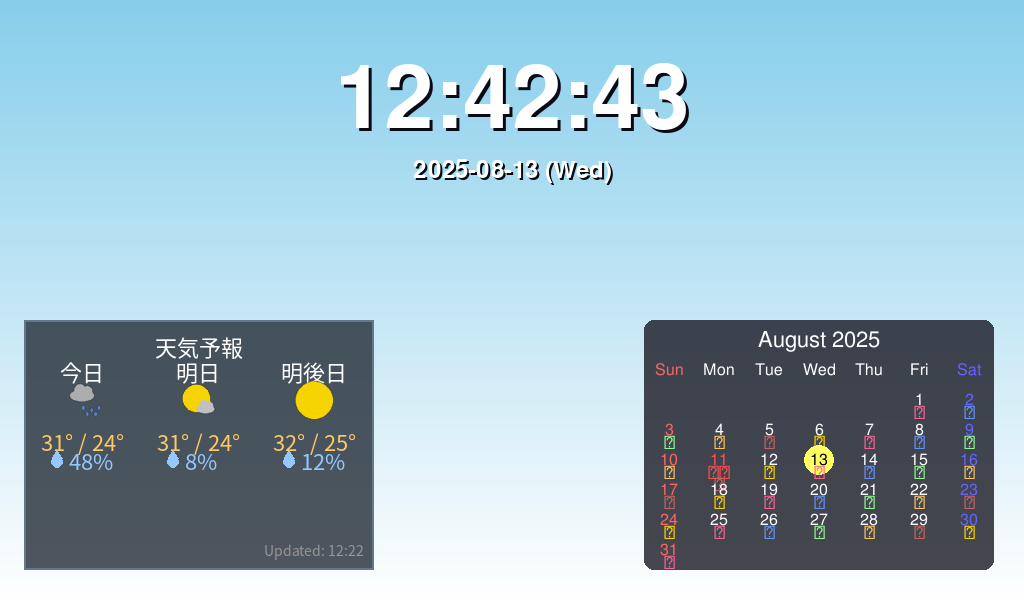
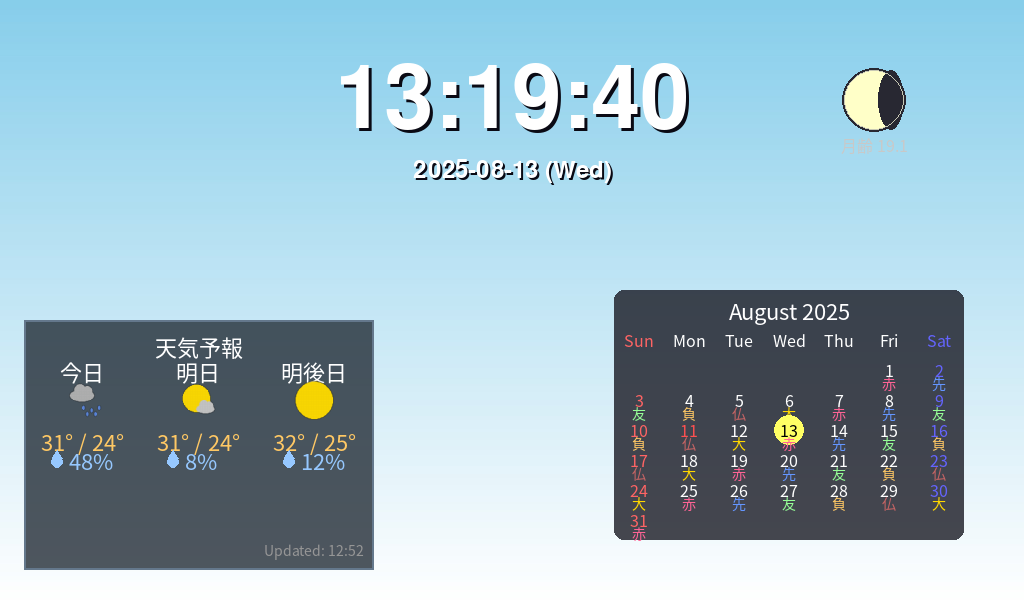
fix: 月相の表示を修正（影の向きと文字表示）
月相表示の問題を修正しました。

修正内容:
1. 月の影の向きを修正
   - 月齢19日（寝待月）では左側に影が入るように修正
   - 満月後は左から欠け、新月後は右から満ちるように調整

2. 月齢と月相名の文字表示を改善
   - 文字色を明るい黄色（255, 255, 200）に変更
   - 半透明の黒背景を追加して視認性を向上
   - 月齢と月相名の両方を表示

表示内容:
- 月のグラフィック（満ち欠けを視覚的に表現）
- 月齢（例：「月齢 19.1」）
- 月相名（例：「寝待月」）

🤖 Generated with [Claude Code](https://claude.ai/code)

diff --git a/src/renderers/simple_moon_renderer.py b/src/renderers/simple_moon_renderer.py
@@ -172,11 +172,34 @@ class SimpleMoonRenderer:
                 # グラフィック形式（円を描画）
                 self._draw_moon_graphic(screen, moon_info, self.x, self.y)
                 
-                # 月齢を表示
+                # 月齢を表示（背景付きで見やすく）
                 age_text = f"月齢 {moon_info['age']}"
-                age_surface = self.small_font.render(age_text, True, (200, 200, 200))
+                age_surface = self.small_font.render(age_text, True, (255, 255, 200))
                 age_rect = age_surface.get_rect(center=(self.x, self.y + 45))
+                
+                # 背景を描画（半透明の黒）
+                padding = 4
+                bg_rect = age_rect.inflate(padding * 2, padding)
+                bg_surface = pygame.Surface((bg_rect.width, bg_rect.height), pygame.SRCALPHA)
+                bg_surface.fill((0, 0, 0, 180))
+                screen.blit(bg_surface, bg_rect)
+                
+                # テキストを描画
                 screen.blit(age_surface, age_rect)
+                
+                # 月相名も表示
+                phase_text = moon_info["phase_name"]
+                phase_surface = self.small_font.render(phase_text, True, (255, 255, 200))
+                phase_rect = phase_surface.get_rect(center=(self.x, self.y + 65))
+                
+                # 背景を描画
+                bg_rect2 = phase_rect.inflate(padding * 2, padding)
+                bg_surface2 = pygame.Surface((bg_rect2.width, bg_rect2.height), pygame.SRCALPHA)
+                bg_surface2.fill((0, 0, 0, 180))
+                screen.blit(bg_surface2, bg_rect2)
+                
+                # テキストを描画
+                screen.blit(phase_surface, phase_rect)
                 
             elif self.moon_phase_format == "ascii":
                 # ASCII形式
@@ -261,19 +284,19 @@ class SimpleMoonRenderer:
         elif moon_age < 22.15:  # 寝待月〜下弦
             # 全体を明るく
             pygame.draw.circle(screen, moon_color, (x, y), radius)
-            # 右側に影を描画
+            # 左側に影を描画（満月を過ぎたら左から欠ける）
             shadow_width = int(radius * 2 * ((moon_age - 16.61) / 5.54))
             if shadow_width > 0:
-                shadow_rect = pygame.Rect(x + radius - shadow_width, y - radius, shadow_width, radius * 2)
+                shadow_rect = pygame.Rect(x - radius, y - radius, shadow_width, radius * 2)
                 pygame.draw.ellipse(screen, shadow_color, shadow_rect)
                 
         elif moon_age < 27.68:  # 下弦〜有明月
-            # 左側を明るく
+            # 右側を明るく
             pygame.draw.circle(screen, moon_color, (x, y), radius)
-            # 右側を暗く（楕円で表現）
-            shadow_width = int(radius * 2 * (1 - (27.68 - moon_age) / 5.53))
+            # 左側を大きく暗く（楕円で表現）
+            shadow_width = int(radius * 2 * ((moon_age - 22.15) / 5.53))
             if shadow_width > 0:
-                shadow_rect = pygame.Rect(x, y - radius, radius + shadow_width // 2, radius * 2)
+                shadow_rect = pygame.Rect(x - radius, y - radius, radius * 2 - shadow_width // 2, radius * 2)
                 pygame.draw.ellipse(screen, shadow_color, shadow_rect)
                 
         else:  # 新月に近づく
